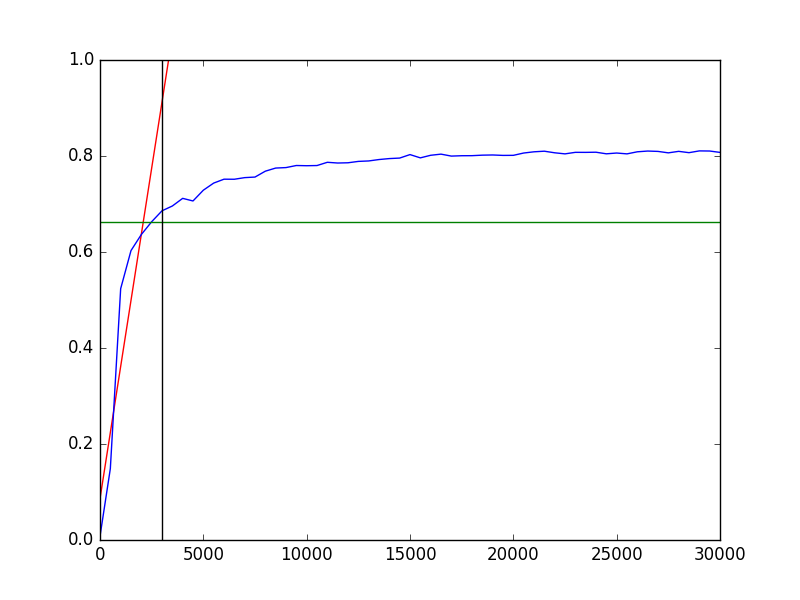
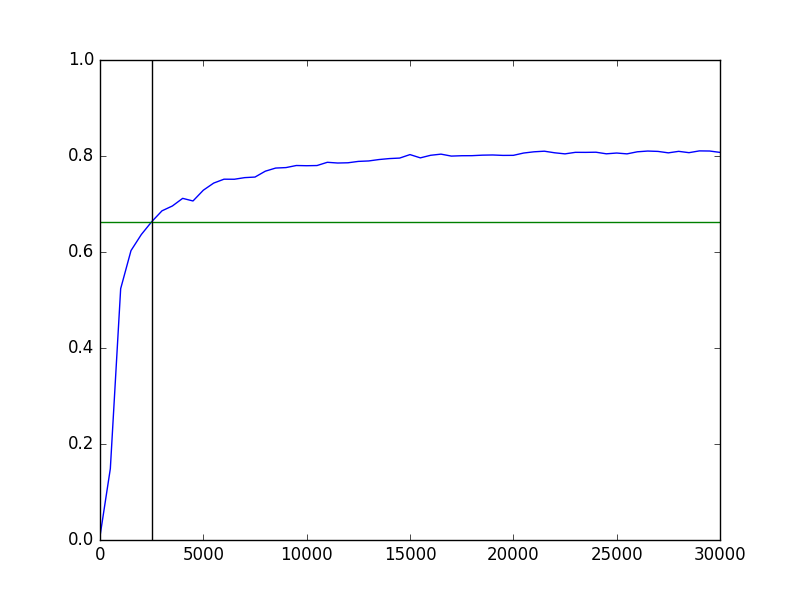
Explain image

Changed region(s): [[0.1875, 0.09, 0.2188, 0.9]]

diff --git a/README.md b/README.md
@@ -18,6 +18,15 @@ true score of the last line and your predicted score.
 
 Do the same, but only with 10% of the data for training.
 
+## Data
+Given are curves similar to the blue one:
+
+![](https://raw.githubusercontent.com/MartinThoma/vcf/master/images/vcf-curve-1.png)
+
+The black line indicates where your training data stops, the green line is a
+baseline prediction (just predict the last score).
+
+
 
 ## Baselines
 
@@ -27,4 +36,3 @@ Do the same, but only with 10% of the data for training.
 | cnn-32-32-64-64-1024-1024-relu-30000-test.csv | 0.14                 | 0.22                 |
 |                                               |                      |                      |
 
-![](https://raw.githubusercontent.com/MartinThoma/vcf/master/images/vcf-curve-1.png)
